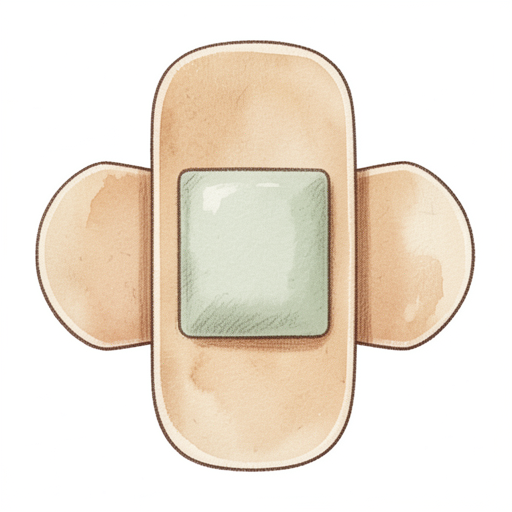
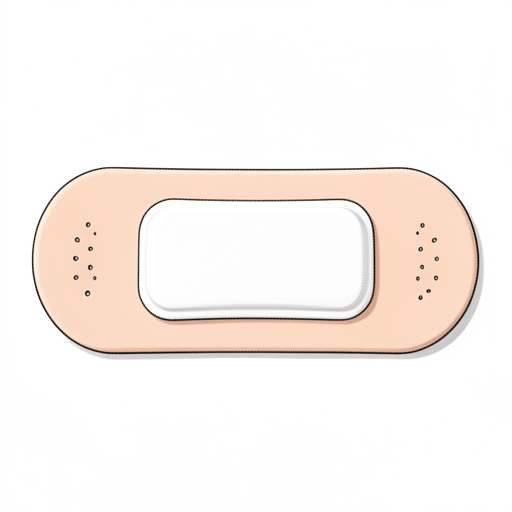
Save generated candidate and queue receipt

diff --git a/data/symbol-white-0.13-arm512/review.html b/data/symbol-white-0.13-arm512/review.html
@@ -1,1 +1,1 @@
-<!doctype html><html lang="sv"><meta charset="utf-8"><title>Bildkandidater</title><style>body{font:16px system-ui;margin:32px;color:#344453;background:white}.cards{display:flex;flex-wrap:wrap;gap:24px}figure{margin:0;width:240px;border:1px solid #ddd;padding:12px}img{width:100%;height:auto}small{color:#666}</style><h1>Bildkandidater</h1><figure><img src="reference.png" alt="Godkänd stilreferens"><figcaption>Stilreferens · se kandidatens metadata för om modellen använder referensbilden som indata.</figcaption></figure><p>Kontrollera handling, händer, borttagning av bakgrund och stil mot referensbilden. Ingen kandidat är publicerad.</p><div class="cards"><figure><img src="FSK_14_65.png" alt="ägg"><figcaption>ägg</figcaption><small>Utkast · granskning krävs</small><details><summary>Före friläggning</summary><img src="raw/FSK_14_65.png" alt="Motivet före bakgrundsborttagning"></details></figure><figure><img src="FSK_15_21.png" alt="fönster"><figcaption>fönster</figcaption><small>Utkast · granskning krävs</small><details><summary>Före friläggning</summary><img src="raw/FSK_15_21.png" alt="Motivet före bakgrundsborttagning"></details></figure><figure><img src="FSK_15_53.png" alt="ost"><figcaption>ost</figcaption><small>Utkast · granskning krävs</small><details><summary>Före friläggning</summary><img src="raw/FSK_15_53.png" alt="Motivet före bakgrundsborttagning"></details></figure><figure><img src="FSK_16_07.png" alt="dörr"><figcaption>dörr</figcaption><small>Utkast · granskning krävs</small><details><summary>Före friläggning</summary><img src="raw/FSK_16_07.png" alt="Motivet före bakgrundsborttagning"></details></figure><figure><img src="FSK_22_65.png" alt="domino"><figcaption>domino</figcaption><small>Utkast · granskning krävs</small><details><summary>Före friläggning</summary><img src="raw/FSK_22_65.png" alt="Motivet före bakgrundsborttagning"></details></figure><figure><img src="FSK_22_72.png" alt="tärning"><figcaption>tärning</figcaption><small>Utkast · granskning krävs</small><details><summary>Före friläggning</summary><img src="raw/FSK_22_72.png" alt="Motivet före bakgrundsborttagning"></details></figure><figure><img src="FSK_24_15.png" alt="såpbubblor"><figcaption>såpbubblor</figcaption><small>Utkast · granskning krävs</small><details><summary>Före friläggning</summary><img src="raw/FSK_24_15.png" alt="Motivet före bakgrundsborttagning"></details></figure><figure><img src="FSK_24_72.png" alt="reflexväst"><figcaption>reflexväst</figcaption><small>Utkast · granskning krävs</small><details><summary>Före friläggning</summary><img src="raw/FSK_24_72.png" alt="Motivet före bakgrundsborttagning"></details></figure><figure><img src="FSK_25_26.png" alt="pennvässare"><figcaption>pennvässare</figcaption><small>Utkast · granskning krävs</small><details><summary>Före friläggning</summary><img src="raw/FSK_25_26.png" alt="Motivet före bakgrundsborttagning"></details></figure><figure><img src="FSK_25_33.png" alt="piprensare"><figcaption>piprensare</figcaption><small>Utkast · granskning krävs</small><details><summary>Före friläggning</summary><img src="raw/FSK_25_33.png" alt="Motivet före bakgrundsborttagning"></details></figure><figure><img src="FSK_27_14.png" alt="buss"><figcaption>buss</figcaption><small>Utkast · granskning krävs</small><details><summary>Före friläggning</summary><img src="raw/FSK_27_14.png" alt="Motivet före bakgrundsborttagning"></details></figure><figure><img src="FSK_27_67.png" alt="flygplan"><figcaption>flygplan</figcaption><small>Utkast · granskning krävs</small><details><summary>Före friläggning</summary><img src="raw/FSK_27_67.png" alt="Motivet före bakgrundsborttagning"></details></figure><figure><img src="FSK_28_68.png" alt="helikopter"><figcaption>helikopter</figcaption><small>Utkast · granskning krävs</small><details><summary>Före friläggning</summary><img src="raw/FSK_28_68.png" alt="Motivet före bakgrundsborttagning"></details></figure><figure><img src="FSK_29_28.png" alt="pennskrin"><figcaption>pennskrin</figcaption><small>Utkast · granskning krävs</small><details><summary>Före friläggning</summary><img src="raw/FSK_29_28.png" alt="Motivet före bakgrundsborttagning"></details></figure><figure><img src="FSK_31_58.png" alt="groda"><figcaption>groda</figcaption><small>Utkast · granskning krävs</small><details><summary>Före friläggning</summary><img src="raw/FSK_31_58.png" alt="Motivet före bakgrundsborttagning"></details></figure><figure><img src="FSK_31_88.png" alt="madrass"><figcaption>madrass</figcaption><small>Utkast · granskning krävs</small><details><summary>Före friläggning</summary><img src="raw/FSK_31_88.png" alt="Motivet före bakgrundsborttagning"></details></figure><figure><img src="FSK_32_01.png" alt="väckarklocka"><figcaption>väckarklocka</figcaption><small>Utkast · granskning krävs</small><details><summary>Före friläggning</summary><img src="raw/FSK_32_01.png" alt="Motivet före bakgrundsborttagning"></details></figure><figure><img src="FSK_32_68.png" alt="hopprep"><figcaption>hopprep</figcaption><small>Utkast · granskning krävs</small><details><summary>Före friläggning</summary><img src="raw/FSK_32_68.png" alt="Motivet före bakgrundsborttagning"></details></figure><figure><img src="FSK_90_03.png" alt="samling"><figcaption>samling</figcaption><small>Utkast · granskning krävs</small><details><summary>Före friläggning</summary><img src="raw/FSK_90_03.png" alt="Motivet före bakgrundsborttagning"></details></figure><figure><img src="FSK_90_08.png" alt="lyssna"><figcaption>lyssna</figcaption><small>Utkast · granskning krävs</small><details><summary>Före friläggning</summary><img src="raw/FSK_90_08.png" alt="Motivet före bakgrundsborttagning"></details></figure><figure><img src="FSK_91_05.png" alt="tröja"><figcaption>tröja</figcaption><small>Utkast · granskning krävs</small><details><summary>Före friläggning</summary><img src="raw/FSK_91_05.png" alt="Motivet före bakgrundsborttagning"></details></figure><figure><img src="FSK_91_06.png" alt="strumpor"><figcaption>strumpor</figcaption><small>Utkast · granskning krävs</small><details><summary>Före friläggning</summary><img src="raw/FSK_91_06.png" alt="Motivet före bakgrundsborttagning"></details></figure><figure><img src="FSK_91_08.png" alt="ryggsäck"><figcaption>ryggsäck</figcaption><small>Utkast · granskning krävs</small><details><summary>Före friläggning</summary><img src="raw/FSK_91_08.png" alt="Motivet före bakgrundsborttagning"></details></figure><figure><img src="FSK_91_10.png" alt="halsduk"><figcaption>halsduk</figcaption><small>Utkast · granskning krävs</small><details><summary>Före friläggning</summary><img src="raw/FSK_91_10.png" alt="Motivet före bakgrundsborttagning"></details></figure><figure><img src="FSK_91_26.png" alt="smörgås"><figcaption>smörgås</figcaption><small>Utkast · granskning krävs</small><details><summary>Före friläggning</summary><img src="raw/FSK_91_26.png" alt="Motivet före bakgrundsborttagning"></details></figure><figure><img src="FSK_91_28.png" alt="vatten"><figcaption>vatten</figcaption><small>Utkast · granskning krävs</small><details><summary>Före friläggning</summary><img src="raw/FSK_91_28.png" alt="Motivet före bakgrundsborttagning"></details></figure><figure><img src="FSK_91_68.png" alt="katt"><figcaption>katt</figcaption><small>Utkast · granskning krävs</small><details><summary>Före friläggning</summary><img src="raw/FSK_91_68.png" alt="Motivet före bakgrundsborttagning"></details></figure><figure><img src="FSK_92_05.png" alt="klippa"><figcaption>klippa</figcaption><small>Utkast · granskning krävs</small><details><summary>Före friläggning</summary><img src="raw/FSK_92_05.png" alt="Motivet före bakgrundsborttagning"></details></figure><figure><img src="FSK_92_06.png" alt="sova"><figcaption>sova</figcaption><small>Utkast · granskning krävs</small><details><summary>Före friläggning</summary><img src="raw/FSK_92_06.png" alt="Motivet före bakgrundsborttagning"></details></figure></div></html>
+<!doctype html><html lang="sv"><meta charset="utf-8"><title>Bildkandidater</title><style>body{font:16px system-ui;margin:32px;color:#344453;background:white}.cards{display:flex;flex-wrap:wrap;gap:24px}figure{margin:0;width:240px;border:1px solid #ddd;padding:12px}img{width:100%;height:auto}small{color:#666}</style><h1>Bildkandidater</h1><figure><img src="reference.png" alt="Godkänd stilreferens"><figcaption>Stilreferens · se kandidatens metadata för om modellen använder referensbilden som indata.</figcaption></figure><p>Kontrollera handling, händer, borttagning av bakgrund och stil mot referensbilden. Ingen kandidat är publicerad.</p><div class="cards"><figure><img src="FSK_14_65.png" alt="ägg"><figcaption>ägg</figcaption><small>Utkast · granskning krävs</small><details><summary>Före friläggning</summary><img src="raw/FSK_14_65.png" alt="Motivet före bakgrundsborttagning"></details></figure><figure><img src="FSK_15_21.png" alt="fönster"><figcaption>fönster</figcaption><small>Utkast · granskning krävs</small><details><summary>Före friläggning</summary><img src="raw/FSK_15_21.png" alt="Motivet före bakgrundsborttagning"></details></figure><figure><img src="FSK_15_53.png" alt="ost"><figcaption>ost</figcaption><small>Utkast · granskning krävs</small><details><summary>Före friläggning</summary><img src="raw/FSK_15_53.png" alt="Motivet före bakgrundsborttagning"></details></figure><figure><img src="FSK_16_07.png" alt="dörr"><figcaption>dörr</figcaption><small>Utkast · granskning krävs</small><details><summary>Före friläggning</summary><img src="raw/FSK_16_07.png" alt="Motivet före bakgrundsborttagning"></details></figure><figure><img src="FSK_22_65.png" alt="domino"><figcaption>domino</figcaption><small>Utkast · granskning krävs</small><details><summary>Före friläggning</summary><img src="raw/FSK_22_65.png" alt="Motivet före bakgrundsborttagning"></details></figure><figure><img src="FSK_22_72.png" alt="tärning"><figcaption>tärning</figcaption><small>Utkast · granskning krävs</small><details><summary>Före friläggning</summary><img src="raw/FSK_22_72.png" alt="Motivet före bakgrundsborttagning"></details></figure><figure><img src="FSK_24_15.png" alt="såpbubblor"><figcaption>såpbubblor</figcaption><small>Utkast · granskning krävs</small><details><summary>Före friläggning</summary><img src="raw/FSK_24_15.png" alt="Motivet före bakgrundsborttagning"></details></figure><figure><img src="FSK_24_72.png" alt="reflexväst"><figcaption>reflexväst</figcaption><small>Utkast · granskning krävs</small><details><summary>Före friläggning</summary><img src="raw/FSK_24_72.png" alt="Motivet före bakgrundsborttagning"></details></figure><figure><img src="FSK_25_26.png" alt="pennvässare"><figcaption>pennvässare</figcaption><small>Utkast · granskning krävs</small><details><summary>Före friläggning</summary><img src="raw/FSK_25_26.png" alt="Motivet före bakgrundsborttagning"></details></figure><figure><img src="FSK_25_33.png" alt="piprensare"><figcaption>piprensare</figcaption><small>Utkast · granskning krävs</small><details><summary>Före friläggning</summary><img src="raw/FSK_25_33.png" alt="Motivet före bakgrundsborttagning"></details></figure><figure><img src="FSK_27_14.png" alt="buss"><figcaption>buss</figcaption><small>Utkast · granskning krävs</small><details><summary>Före friläggning</summary><img src="raw/FSK_27_14.png" alt="Motivet före bakgrundsborttagning"></details></figure><figure><img src="FSK_27_67.png" alt="flygplan"><figcaption>flygplan</figcaption><small>Utkast · granskning krävs</small><details><summary>Före friläggning</summary><img src="raw/FSK_27_67.png" alt="Motivet före bakgrundsborttagning"></details></figure><figure><img src="FSK_28_68.png" alt="helikopter"><figcaption>helikopter</figcaption><small>Utkast · granskning krävs</small><details><summary>Före friläggning</summary><img src="raw/FSK_28_68.png" alt="Motivet före bakgrundsborttagning"></details></figure><figure><img src="FSK_29_28.png" alt="pennskrin"><figcaption>pennskrin</figcaption><small>Utkast · granskning krävs</small><details><summary>Före friläggning</summary><img src="raw/FSK_29_28.png" alt="Motivet före bakgrundsborttagning"></details></figure><figure><img src="FSK_30_91.png" alt="plåster"><figcaption>plåster</figcaption><small>Utkast · granskning krävs</small><details><summary>Före friläggning</summary><img src="raw/FSK_30_91.png" alt="Motivet före bakgrundsborttagning"></details></figure><figure><img src="FSK_31_58.png" alt="groda"><figcaption>groda</figcaption><small>Utkast · granskning krävs</small><details><summary>Före friläggning</summary><img src="raw/FSK_31_58.png" alt="Motivet före bakgrundsborttagning"></details></figure><figure><img src="FSK_31_88.png" alt="madrass"><figcaption>madrass</figcaption><small>Utkast · granskning krävs</small><details><summary>Före friläggning</summary><img src="raw/FSK_31_88.png" alt="Motivet före bakgrundsborttagning"></details></figure><figure><img src="FSK_32_01.png" alt="väckarklocka"><figcaption>väckarklocka</figcaption><small>Utkast · granskning krävs</small><details><summary>Före friläggning</summary><img src="raw/FSK_32_01.png" alt="Motivet före bakgrundsborttagning"></details></figure><figure><img src="FSK_32_68.png" alt="hopprep"><figcaption>hopprep</figcaption><small>Utkast · granskning krävs</small><details><summary>Före friläggning</summary><img src="raw/FSK_32_68.png" alt="Motivet före bakgrundsborttagning"></details></figure><figure><img src="FSK_90_03.png" alt="samling"><figcaption>samling</figcaption><small>Utkast · granskning krävs</small><details><summary>Före friläggning</summary><img src="raw/FSK_90_03.png" alt="Motivet före bakgrundsborttagning"></details></figure><figure><img src="FSK_90_08.png" alt="lyssna"><figcaption>lyssna</figcaption><small>Utkast · granskning krävs</small><details><summary>Före friläggning</summary><img src="raw/FSK_90_08.png" alt="Motivet före bakgrundsborttagning"></details></figure><figure><img src="FSK_91_05.png" alt="tröja"><figcaption>tröja</figcaption><small>Utkast · granskning krävs</small><details><summary>Före friläggning</summary><img src="raw/FSK_91_05.png" alt="Motivet före bakgrundsborttagning"></details></figure><figure><img src="FSK_91_06.png" alt="strumpor"><figcaption>strumpor</figcaption><small>Utkast · granskning krävs</small><details><summary>Före friläggning</summary><img src="raw/FSK_91_06.png" alt="Motivet före bakgrundsborttagning"></details></figure><figure><img src="FSK_91_08.png" alt="ryggsäck"><figcaption>ryggsäck</figcaption><small>Utkast · granskning krävs</small><details><summary>Före friläggning</summary><img src="raw/FSK_91_08.png" alt="Motivet före bakgrundsborttagning"></details></figure><figure><img src="FSK_91_10.png" alt="halsduk"><figcaption>halsduk</figcaption><small>Utkast · granskning krävs</small><details><summary>Före friläggning</summary><img src="raw/FSK_91_10.png" alt="Motivet före bakgrundsborttagning"></details></figure><figure><img src="FSK_91_26.png" alt="smörgås"><figcaption>smörgås</figcaption><small>Utkast · granskning krävs</small><details><summary>Före friläggning</summary><img src="raw/FSK_91_26.png" alt="Motivet före bakgrundsborttagning"></details></figure><figure><img src="FSK_91_28.png" alt="vatten"><figcaption>vatten</figcaption><small>Utkast · granskning krävs</small><details><summary>Före friläggning</summary><img src="raw/FSK_91_28.png" alt="Motivet före bakgrundsborttagning"></details></figure><figure><img src="FSK_91_68.png" alt="katt"><figcaption>katt</figcaption><small>Utkast · granskning krävs</small><details><summary>Före friläggning</summary><img src="raw/FSK_91_68.png" alt="Motivet före bakgrundsborttagning"></details></figure><figure><img src="FSK_92_05.png" alt="klippa"><figcaption>klippa</figcaption><small>Utkast · granskning krävs</small><details><summary>Före friläggning</summary><img src="raw/FSK_92_05.png" alt="Motivet före bakgrundsborttagning"></details></figure><figure><img src="FSK_92_06.png" alt="sova"><figcaption>sova</figcaption><small>Utkast · granskning krävs</small><details><summary>Före friläggning</summary><img src="raw/FSK_92_06.png" alt="Motivet före bakgrundsborttagning"></details></figure></div></html>
